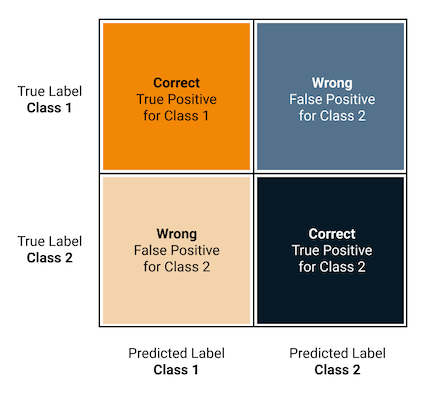
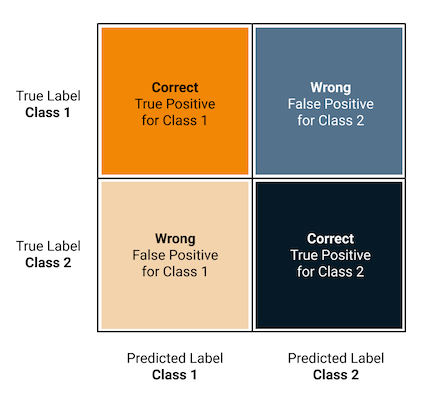
Finished CM Post

diff --git a/content/posts/modeleval.md b/content/posts/modeleval.md
@@ -10,45 +10,46 @@ Header_Cover: images/cranes_night.jpg
 
 ## Model Evaluation for Binary Classification
 
-Understanding how to evaluate models is a critical part of any Machine Learning (ML) project.  Many times when we're starting with ML or when having conversations with people that aren't as well versed in ML, the term **Accuracy** is thrown out as a generalization of the model's performance.  The problem with generally talking about the **Accuracy** is that it specifically refers to the overall performance of the model's ability to predict both the positive or the negative classes in the dataset.
+Understanding how to evaluate models is a critical part of any Machine Learning (ML) project.  Many times when we're starting with ML or when having conversations with people that aren't as well versed in ML, the term **Accuracy** is thrown out as a generalization of the model's performance.  The problem using talking about the **Accuracy** of a model is that it specifically refers to a calculation that divides the number of observations it correctly classified vs. the total number in the test set.
 
-While **Accuracy** is acceptable for model performance when your dataset is perfectly balanced (equal positive and negative classes), the reality is that this is rarely the case.  There are methods to deal with imbalanced data, which I'll talk about later, but for now, let's understand how to interpret the results of a model's performance properly.
+While **Accuracy** is acceptable for model performance when your dataset is perfectly balanced (equal positive and negative classes), the reality is that this is rarely the case.  There are methods to deal with imbalanced data, which I'll talk about in a later post, but for now, let's understand how to interpret the results of a model's performance properly.
 
 ## Interpreting a Confusion Matrix
 
-After a model is trained and tested on data (Scikit-Learn has a great write-up of this process[^CROSS]), you can use a Confusion Matrix to give a view of how many observations the model misclassified.  The trick to this is not just to understand how many got right vs. wrong (Accuracy) but how many for each class, positive or negative.  
-
-A Confusion Matrix is a 2x2 table (for binary classification) that plots the actual values vs. the predicted values on its axes.  Once you understand how to interpret it, it is an easy and intuitive way to see your model's performance. 
+After a model is trained and tested on data (Scikit-Learn has a great write-up of this process[^CROSS]), you can generate a **Confusion Matrix** to give a view of how observations the model misclassified.  A Confusion Matrix is a 2x2 table (for binary classification) that plots the **actual** values vs. the **predicted** values on its axes.  Once you understand how to interpret it, it is easy and intuitive to see your model's performance. 
 
 ![Confusion Matrix](images/modeleval_1.png)  
 
-*Image Credit: Baptiste Rocca[^IMB]*
+*Image by Author. The concept from Baptiste Rocca[^IMB]*
+
+The matrix shows correctly classified observations in the top left and bottom right quadrants, while misclassified are in the other corners.  Thinking about these as rows or columns independently helps you interpret each class.   
 
 See the `Scikit-Learn` documentation[^CM] for how to display a Confusion Matrix.
 
 ## Evaluation Metrics
 
-1. **Accuracy:** This is the percentage of observations that the model correctly predicted across both classes.  Be very careful with imbalanced data.  You can have very high Accuracy, but the performance of the minority class can be horrible.
+1. **Accuracy:** This is the percentage of observations that the model correctly predicted across both classes.  Be very careful with imbalanced data.  You can have very high accuracy, but the performance of the minority class can be horrible.
 2. **Precision:** Tells you how reliable the prediction is for the class.  e.g., when the precision score is high, and the model predicts the class, you can trust it is correct.
 3. **Recall:** Tells you how well the model can predict the class.  A high recall with low Precision means that it is performing well in the class but may include other classes in the results.
 4. **F1 Score:** Calculates the harmonic mean of Precision and Recall combining them into a single metric.
 
 The following image is the best way that I've seen to illustrate how each calculation is performed.  It can also help you, once you understand what you're trying to optimize for, which type of metric you should use.
 
-For example, if you're looking to minimize False Positives for Class 1, then Class 1 Recall is the right metric for you (*Dark Orange and Dark Blue in the Image*).
-
 ![Confusion Matrix Calculations](images/modeleval_2.png)  
 
-*Image Credit: Baptiste Rocca[^IMB]*
+*Image by Author. The concept from Baptiste Rocca[^IMB]*
+
+For example, if you're looking to minimize False Positives for Class 1, then **Class 1 Precision** is the right metric for you (*Dark Orange and Light Orange in the Image*).
+
+**Note:**  *Precision* is the relationship of the *column* in the matrix, and *recall* is the *row* in the matrix.
 
 ## Optimize for the Outcome You Want
 
 A critical part of picking the right evaluation metric is to decide what is the most important outcome you want.  I think of this broken down into three things:
 
 1. **Minimize False Positives:** A use case for this might be a spam filter.  Ideally, you never want to mark a real message as spam and have it filed into a spam folder.  The potential for a user to miss an important message is high; therefore, you want to reduce false positives and choose a model with *high Precision*.
-2. **Minimize False Negatives:** The best example here for me is medical screening.  It would be incredibly bad if the algorithm had a false negatives with the patient, but they were actually sick.  It would be best to flag potential issues and have an expert follow up.  In this case, you want to focus on a *high Recall*.
-3. **Both:** If your use case doesn't have a bias to one or the other, then choose *F1* for a balanced metric for both Precision and Recall.
-
+2. **Minimize False Negatives:** The best example here for me is medical screening.  It would be incredibly bad if the algorithm had false negatives with the patient, but they were sick.  It would be best to flag potential issues and have an expert follow up.  In this case, you want to focus on a *high Recall*.
+3. **Both:** If your use case doesn't have a bias to one or the other, then choose *F1* for a balanced metric for *both* Precision and Recall.
 
 Hopefully, this helps you better understand how to interpret a confusion matrix and choose the best evaluation metric for your use case!
 
@@ -56,6 +57,5 @@ Hopefully, this helps you better understand how to interpret a confusion matrix 
 
 [^CROSS]: [Cross-validation: evaluating estimator performance](https://scikit-learn.org/stable/modules/cross_validation.html)  
 [^IMB]: [Handling imbalanced datasets in machine learning](https://towardsdatascience.com/handling-imbalanced-datasets-in-machine-learning-7a0e84220f28)  
-[^ROC]: [Classification: ROC Curve and AUC](https://developers.google.com/machine-learning/crash-course/classification/roc-and-auc)  
 [^METRIC]: [Performance Metrics: Confusion matrix, Precision, Recall, and F1 Score](https://towardsdatascience.com/performance-metrics-confusion-matrix-precision-recall-and-f1-score-a8fe076a2262) 
 [^CM]: [How to display a Confusion Matrix](https://scikit-learn.org/stable/auto_examples/model_selection/plot_confusion_matrix.html)
